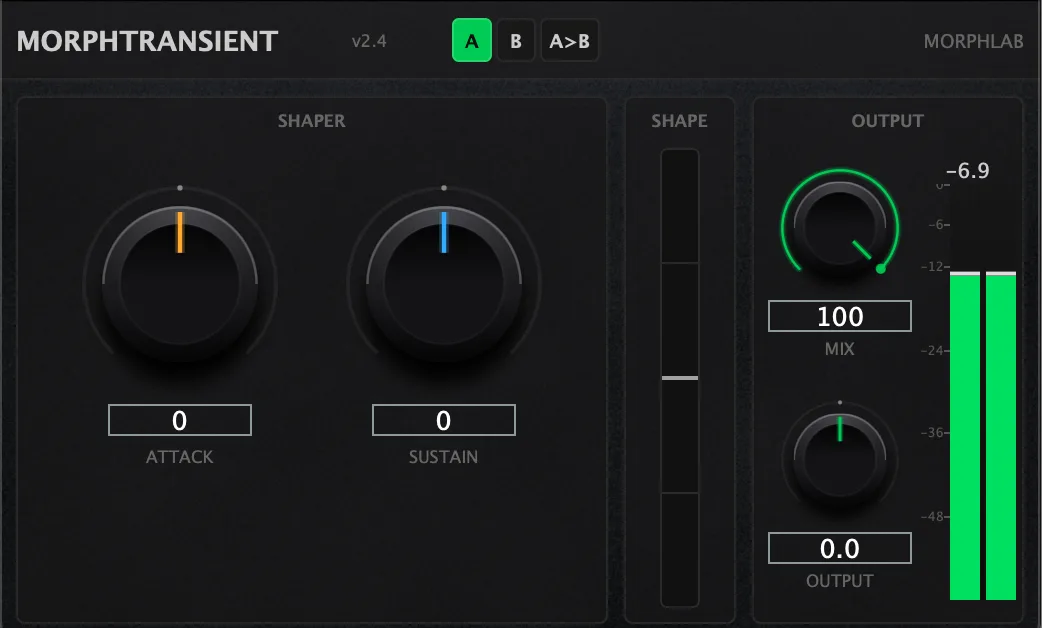
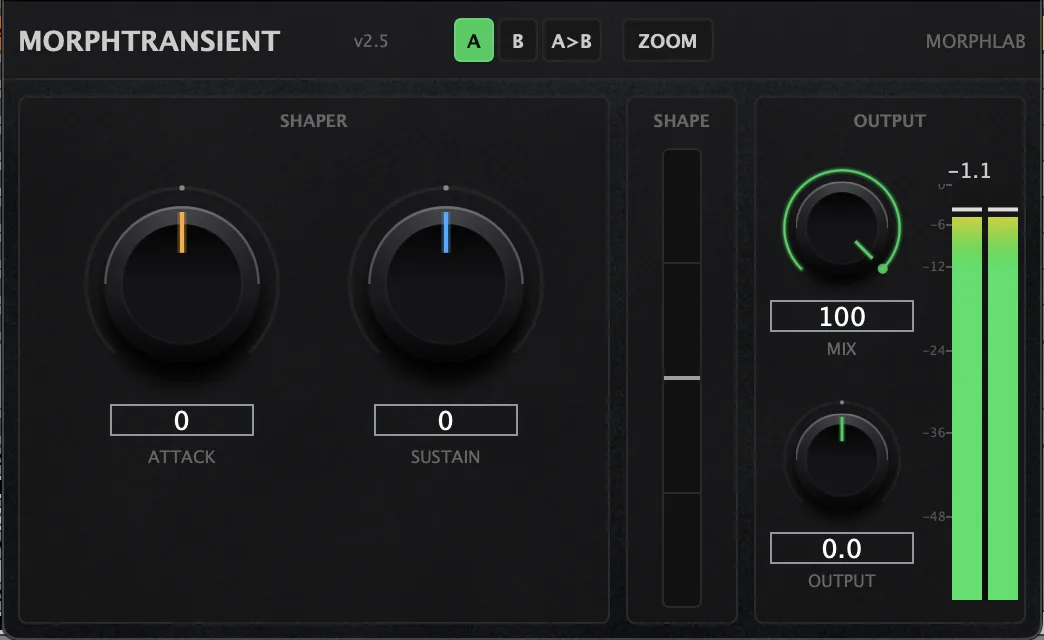
MorphTransient 2.5: zoom 75-200%; 2.4 in archivio
Claude-Session: https://claude.ai/code/session_012eAqbqRQy8pDZqQLtCA9wC

diff --git a/assets/site.js b/assets/site.js
@@ -27,8 +27,8 @@ const PRODUCTS = [
     released:"2026-10-17", older:[],
     tag:"Sidechain phase alignment",
     text:"Aligns one track to another through the sidechain, so kick and bass sum with the least cancellation. Four engines — Rotate, Multiband, Match and Match LF — on one big knob." },
-  { id:"morphtransient", file:"MorphTransient", name:"MorphTransient", version:"2.4", group:"plugins",
-    released:"2026-10-05", older:[],
+  { id:"morphtransient", file:"MorphTransient", name:"MorphTransient", version:"2.5", group:"plugins",
+    released:"2026-10-31", older:[{ version:"2.4", released:"2026-10-05" }],
     tag:"Transient designer",
     text:"Two knobs, attack and sustain, driven by level-independent dual-envelope detection — no threshold to chase, no pumping. Parallel mix and a live shape meter. Zero latency." },
   { id:"morphase", file:"MorPhase", name:"MorPhase", version:"2.1", group:"plugins",
